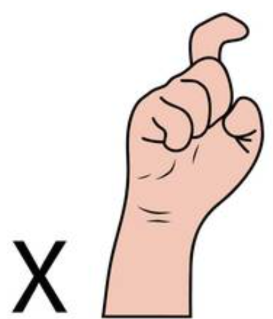
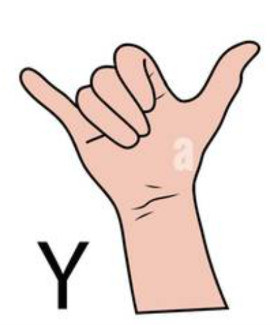
update gemini

diff --git a/motionTOword/gloss.js b/motionTOword/gloss.js
@@ -1,17 +1,61 @@
-// Gloss helpers that don't need the network.
+// Turns English into ASL gloss and then into playable clips. No network, no API.
 
-const DROP = new Set(["a", "an", "the", "is", "are", "am", "was", "were", "be", "been", "to", "of", "do", "does", "did"]);
-const TIME = new Set(["tomorrow", "yesterday", "today", "tonight", "now", "later"]);
+// Words that have no sign of their own. They are dropped unless your lexicon has them.
+const STOP = new Set([
+  "a", "an", "the", "is", "are", "am", "was", "were", "be", "been", "being", "to", "of",
+  "do", "does", "did", "will", "would", "shall", "should", "in", "on", "at", "for", "with",
+  "by", "it", "this", "that", "there", "and", "so", "very", "really",
+]);
+const TIME = new Set(["today", "yesterday", "tomorrow", "tonight", "now", "later"]);
 const WH = new Set(["who", "what", "where", "why", "how", "when"]);
+// Words that map to a different sign name in your lexicon.
+const ALIAS = { i: "me", mine: "my", yours: "your", ate: "eat", went: "go", gone: "go", drank: "drink", felt: "feel" };
 
-// Rough rule-based gloss used when no API key is set (demo mode).
-export function fallbackGloss(text) {
-  const words = text.toLowerCase().replace(/[^a-z0-9'\s-]/g, " ").split(/\s+/).filter(Boolean);
-  const kept = words.filter((w) => !DROP.has(w));
-  const time = kept.filter((w) => TIME.has(w));
-  const wh = kept.filter((w) => WH.has(w));
-  const rest = kept.filter((w) => !TIME.has(w) && !WH.has(w));
-  return [...time, ...rest, ...wh].map((w) => w.toUpperCase());
+// Possible lexicon spellings of a word: arm -> ARMS, feeling -> FEEL, coughed -> COUGH ...
+function forms(w) {
+  const out = [w, w + "s", w + "es"];
+  if (w.endsWith("ies")) out.push(w.slice(0, -3) + "y");
+  if (w.endsWith("es")) out.push(w.slice(0, -2));
+  if (w.endsWith("s")) out.push(w.slice(0, -1));
+  if (w.endsWith("ing")) { const s = w.slice(0, -3); out.push(s, s + "e", s.slice(0, -1)); }
+  if (w.endsWith("ed")) { const s = w.slice(0, -2); out.push(s, s + "e", s.slice(0, -1)); }
+  return out.filter((f) => f === w || f.length >= 3);
+}
+
+function findSign(word, vocab) {
+  for (const f of [ALIAS[word], ...forms(word)]) {
+    if (f && vocab.has(f.toUpperCase())) return f.toUpperCase();
+  }
+  return null;
+}
+
+// English sentence -> list of gloss tokens, using only the signs in your lexicon.
+// Words with no sign stay as plain tokens and get fingerspelled later.
+export function fallbackGloss(text, vocabKeys = []) {
+  const vocab = new Set(vocabKeys.map((k) => k.toUpperCase()));
+  const words = text
+    .toLowerCase()
+    .replace(/won't/g, "will not")
+    .replace(/can't/g, "can not")
+    .replace(/n't/g, " not")
+    .replace(/'(m|re|s|ll|ve|d)\b/g, "")
+    .replace(/[^a-z0-9\s-]/g, " ")
+    .split(/\s+/)
+    .filter(Boolean);
+
+  const time = [];
+  const body = [];
+  const wh = [];
+  for (let i = 0; i < words.length; i++) {
+    const w = words[i];
+    const pair = words[i + 1] && `${w}-${words[i + 1]}`.toUpperCase(); // "thank you" -> THANK-YOU
+    let token;
+    if (pair && vocab.has(pair)) { token = pair; i++; }
+    else token = findSign(w, vocab) ?? (STOP.has(w) ? null : w.toUpperCase());
+    if (!token) continue;
+    (TIME.has(w) ? time : WH.has(w) ? wh : body).push(token);
+  }
+  return [...time, ...body, ...wh]; // time first, question words last
 }
 
 // A lexicon entry can be a string path or { clip, start, end }.
@@ -32,6 +76,8 @@ export function resolve(gloss, lexicon) {
   const signs = lexicon.signs ?? {};
   const alphabet = lexicon.alphabet ?? {};
   const secs = lexicon.imageSeconds ?? 1.2; // how long each picture stays up
+  const withTrim = (it) =>
+    it.image ? it : { ...it, start: it.start ?? lexicon.trimStart, trimEnd: lexicon.trimEnd };
   const items = [];
   const tokens = [];
 
@@ -41,7 +87,7 @@ export function resolve(gloss, lexicon) {
     const sign = !isFs && normalize(signs[word], secs);
 
     if (sign) {
-      items.push({ ...sign, token });
+      items.push({ ...withTrim(sign), token });
       tokens.push({ label: word, status: "sign" });
       return;
     }
@@ -52,7 +98,7 @@ export function resolve(gloss, lexicon) {
       .filter((c) => /[A-Z0-9]/.test(c))
       .map((c) => normalize(alphabet[c] ?? `${dir}${c}${ext}`, lexicon.letterSeconds ?? secs));
     if (letters.length) {
-      letters.forEach((l) => items.push({ ...l, token, fs: true }));
+      letters.forEach((l) => items.push({ ...withTrim(l), token, fs: true }));
       tokens.push({ label: isFs ? raw : `FS-${word}`, status: "fs" });
     } else {
       tokens.push({ label: word, status: "missing" });

diff --git a/motionTOword/gemini.js b/motionTOword/gemini.js
@@ -1,0 +1,100 @@
+// Optional speech-to-text with Gemini. Only used when a Gemini key is pasted in the header.
+// NOTE: calling Gemini straight from the browser exposes the key. Fine for a hackathon
+// demo; for a deployed app, send this request through your own server instead.
+
+const API = "https://generativelanguage.googleapis.com/v1beta";
+const PREFERRED = ["gemini-2.5-flash", "gemini-flash-latest", "gemini-2.0-flash"];
+let picked = { key: "", model: "" };
+
+async function apiError(res) {
+  let msg = res.statusText;
+  try { msg = (await res.json()).error?.message ?? msg; } catch { /* keep statusText */ }
+  const hint = {
+    400: "Check the key was copied in full.",
+    403: "This key isn't allowed to use the Gemini API.",
+    404: "Model not found.",
+    429: "Quota or rate limit hit. Wait a minute or use another key.",
+  }[res.status] ?? "";
+  return new Error(`Gemini ${res.status}: ${msg} ${hint}`.trim());
+}
+
+// Ask Google which models this key can use, so a retired model name never breaks the demo.
+// This also checks the key itself before any audio is sent.
+async function getModel(key) {
+  if (picked.key === key) return picked.model;
+  const res = await fetch(`${API}/models?pageSize=200&key=${encodeURIComponent(key)}`);
+  if (!res.ok) throw await apiError(res);
+  const { models = [] } = await res.json();
+  const usable = models
+    .filter((m) => m.supportedGenerationMethods?.includes("generateContent"))
+    .map((m) => m.name.replace("models/", ""));
+  const stableFlash = usable
+    .filter((n) => /flash/.test(n) && !/(lite|image|tts|live|exp|preview|thinking)/.test(n))
+    .sort()
+    .reverse();
+  const model = PREFERRED.find((p) => usable.includes(p)) ?? stableFlash[0] ?? usable[0];
+  if (!model) throw new Error("This key has no models that support generateContent.");
+  picked = { key, model };
+  return model;
+}
+
+// Convert whatever the browser recorded into 16 kHz mono WAV, which Gemini accepts.
+async function toWav16k(blob) {
+  const decoded = await new AudioContext().decodeAudioData(await blob.arrayBuffer());
+  const offline = new OfflineAudioContext(1, Math.max(1, Math.ceil(decoded.duration * 16000)), 16000);
+  const src = offline.createBufferSource();
+  src.buffer = decoded;
+  src.connect(offline.destination);
+  src.start();
+  const pcm = (await offline.startRendering()).getChannelData(0);
+
+  const buf = new ArrayBuffer(44 + pcm.length * 2);
+  const v = new DataView(buf);
+  const str = (o, s) => [...s].forEach((c, i) => v.setUint8(o + i, c.charCodeAt(0)));
+  str(0, "RIFF"); v.setUint32(4, 36 + pcm.length * 2, true); str(8, "WAVE"); str(12, "fmt ");
+  v.setUint32(16, 16, true); v.setUint16(20, 1, true); v.setUint16(22, 1, true);
+  v.setUint32(24, 16000, true); v.setUint32(28, 32000, true); v.setUint16(32, 2, true);
+  v.setUint16(34, 16, true); str(36, "data"); v.setUint32(40, pcm.length * 2, true);
+  pcm.forEach((s, i) => v.setInt16(44 + i * 2, Math.max(-1, Math.min(1, s)) * 0x7fff, true));
+  return new Blob([buf], { type: "audio/wav" });
+}
+
+const toBase64 = (blob) =>
+  new Promise((resolve, reject) => {
+    const r = new FileReader();
+    r.onload = () => resolve(String(r.result).split(",")[1]);
+    r.onerror = () => reject(r.error);
+    r.readAsDataURL(blob);
+  });
+
+export async function transcribe(key, audioBlob) {
+  const model = await getModel(key);
+
+  let audio;
+  try {
+    audio = await toWav16k(audioBlob);
+  } catch (err) {
+    console.warn("WAV conversion failed, sending the raw recording instead:", err);
+    audio = audioBlob;
+  }
+  const mime = audio.type.split(";")[0] || "audio/webm";
+
+  const res = await fetch(`${API}/models/${model}:generateContent?key=${encodeURIComponent(key)}`, {
+    method: "POST",
+    headers: { "Content-Type": "application/json" },
+    body: JSON.stringify({
+      contents: [{
+        parts: [
+          { text: "Transcribe this speech exactly. Return only the transcript, no commentary. If there is no speech, return nothing." },
+          { inline_data: { mime_type: mime, data: await toBase64(audio) } },
+        ],
+      }],
+    }),
+  });
+  if (!res.ok) throw await apiError(res);
+
+  const json = await res.json();
+  const text = (json.candidates?.[0]?.content?.parts ?? []).map((p) => p.text ?? "").join("").trim();
+  if (!text && json.promptFeedback?.blockReason) throw new Error(`blocked: ${json.promptFeedback.blockReason}`);
+  return text;
+}

diff --git a/motionTOword/app.js b/motionTOword/app.js
@@ -1,10 +1,9 @@
-import { toGloss } from "./ai.js";
 import { fallbackGloss, resolve } from "./gloss.js";
 import { ClipPlayer } from "./player.js";
 
 const $ = (id) => document.getElementById(id);
 const els = {
-  key: $("key"), mic: $("mic"), rate: $("rate"), replay: $("replay"),
+  mic: $("mic"), rate: $("rate"), replay: $("replay"),
   transcript: $("transcript"), gloss: $("gloss"), status: $("status"),
   typed: $("typed"), typedInput: $("typedInput"), screen: document.querySelector(".screen"),
 };
@@ -14,12 +13,6 @@ let lastItems = [];
 let recognition = null;
 const failed = new Set();
 const SR = window.SpeechRecognition || window.webkitSpeechRecognition;
-
-// Remember the key for this tab only.
-try { els.key.value = sessionStorage.getItem("ai-key") ?? ""; } catch {}
-els.key.addEventListener("change", () => {
-  try { sessionStorage.setItem("ai-key", els.key.value.trim()); } catch {}
-});
 
 const setStatus = (msg, isError = false) => {
   els.status.textContent = msg;
@@ -61,43 +54,35 @@ function renderGloss(tokens) {
   );
 }
 
-async function process(text) {
+function process(text) {
   text = text.trim();
   if (!text) return;
   els.transcript.textContent = text;
-  const key = els.key.value.trim();
+  setStatus("");
 
-  let gloss;
-  try {
-    if (key) {
-      setStatus("Converting to ASL gloss...");
-      gloss = await toGloss(key, text, Object.keys(lexicon.signs ?? {}));
-    } else {
-      gloss = fallbackGloss(text);
-      setStatus("Demo mode: no API key, so gloss uses simple rules.");
-    }
-  } catch (err) {
-    gloss = fallbackGloss(text);
-    setStatus(`Gloss API failed (${err.message}). Used simple rules instead.`, true);
-  }
-
+  const gloss = fallbackGloss(text, Object.keys(lexicon.signs ?? {}));
   const { items, tokens } = resolve(gloss, lexicon);
   renderGloss(tokens);
   lastItems = items;
   els.replay.disabled = !items.length;
 
-  if (!items.length) return setStatus("None of these signs have clips yet. Add clips to lexicon.json.", true);
+  if (!items.length) return setStatus("None of these words have signs or letter pictures yet. Check lexicon.json.", true);
   failed.clear();
   player.play(items, Number(els.rate.value));
 }
 
-// ---- microphone: the browser's built-in speech recognition. No API key needed. ----
+// ---- microphone: the browser's built-in speech recognition ----
 const MIC_ERRORS = {
   "not-allowed": "Microphone blocked. Click the lock icon in the address bar, allow the microphone, then reload.",
-  "service-not-allowed": "This browser blocked speech recognition. Try Chrome or Edge.",
-  "network": "Speech recognition couldn't reach its service. Check your internet, or use Chrome or Edge (Brave doesn't support it).",
+  "service-not-allowed": "This browser blocked speech recognition. Try Chrome or Edge, or type a sentence.",
+  "network": "Speech recognition couldn't reach its service. Check your internet (Chrome and Edge need it), or type a sentence. Brave doesn't support this.",
   "no-speech": "Didn't hear anything. Check your microphone is the selected input and try again.",
   "audio-capture": "No microphone found. Plug one in or check your system sound settings.",
+};
+
+const setMicUI = (on) => {
+  els.mic.setAttribute("aria-pressed", String(on));
+  els.mic.textContent = on ? "Stop and translate" : "Start speaking";
 };
 
 function startListening() {
@@ -117,8 +102,7 @@ function startListening() {
   recognition.onerror = (e) => setStatus(MIC_ERRORS[e.error] ?? `Speech recognition error: ${e.error}`, true);
   recognition.onend = () => {
     recognition = null;
-    els.mic.setAttribute("aria-pressed", "false");
-    els.mic.textContent = "Start speaking";
+    setMicUI(false);
     if (heard.trim()) process(heard);
     else if (!els.status.classList.contains("err")) setStatus("Didn't catch anything. Try again.", true);
   };
@@ -128,8 +112,7 @@ function startListening() {
     recognition = null;
     return setStatus(`Couldn't start the microphone: ${err.message}`, true);
   }
-  els.mic.setAttribute("aria-pressed", "true");
-  els.mic.textContent = "Stop and translate";
+  setMicUI(true);
   setStatus("Listening... speak, then press the button again.");
 }
 

diff --git a/motionTOword/index.html b/motionTOword/index.html
@@ -12,9 +12,6 @@
 <body>
   <header>
     <h1>Voice to Sign</h1>
-    <label class="key">Claude API key
-      <input id="key" type="password" placeholder="Paste key (optional for demo mode)" autocomplete="off">
-    </label>
   </header>
 
   <main>
@@ -32,6 +29,8 @@
             <option value="0.75">0.75x</option>
             <option value="1" selected>1x</option>
             <option value="1.25">1.25x</option>
+            <option value="1.5">1.5x</option>
+            <option value="2">2x</option>
           </select>
         </label>
         <button id="replay" class="ghost" disabled>Replay</button>

diff --git a/motionTOword/style.css b/motionTOword/style.css
@@ -17,7 +17,8 @@ h2 { margin: 0 0 8px; font-size: 1rem; color: var(--muted); font-weight: 700; }
 input, select, button { font: inherit; color: inherit; }
 input[type=text], input[type=password], select {
   background: var(--panel); border: 1px solid var(--line); border-radius: 8px; padding: 9px 12px; }
-.key input { width: 260px; }
+.keys { display: flex; flex-wrap: wrap; gap: 10px 20px; }
+.key input { width: 200px; }
 
 main { display: grid; grid-template-columns: minmax(0, 1.5fr) minmax(280px, 1fr);
   gap: 28px; padding: 0 28px 40px; max-width: 1200px; margin: 0 auto; }
